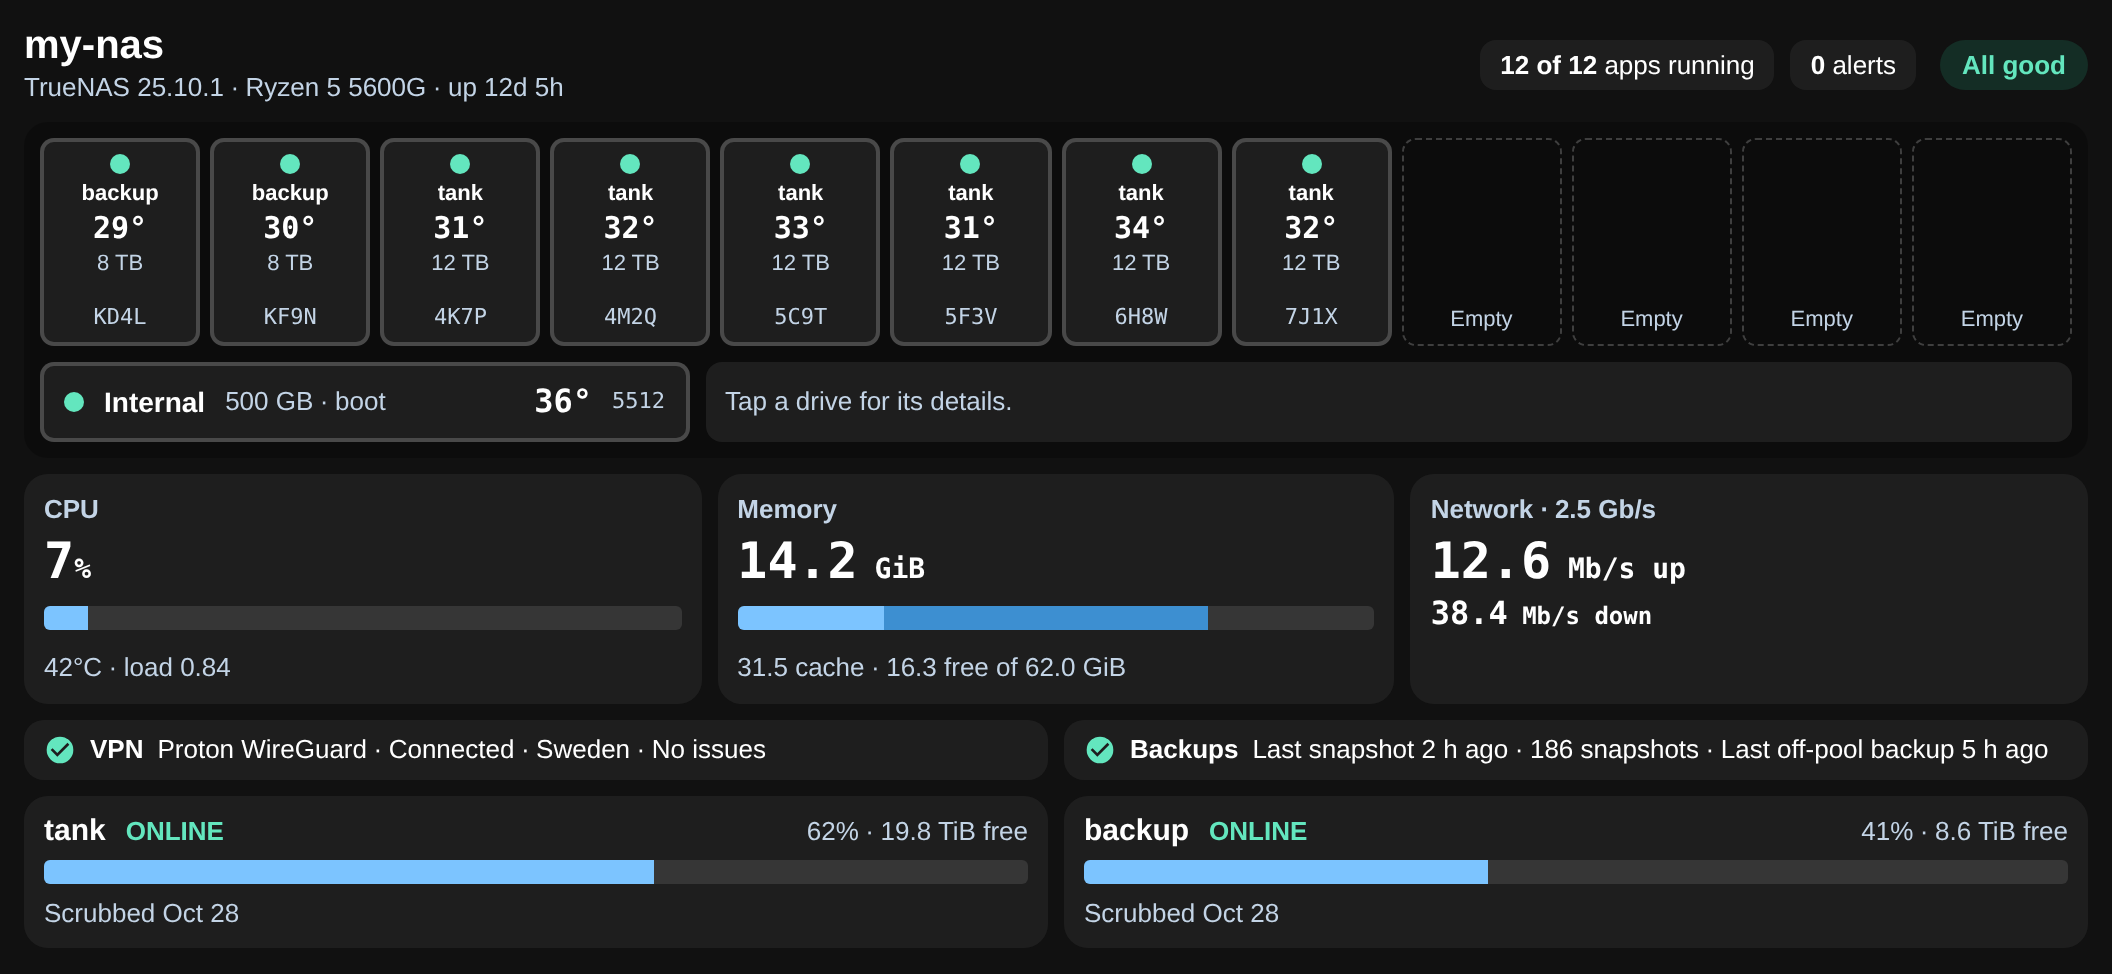
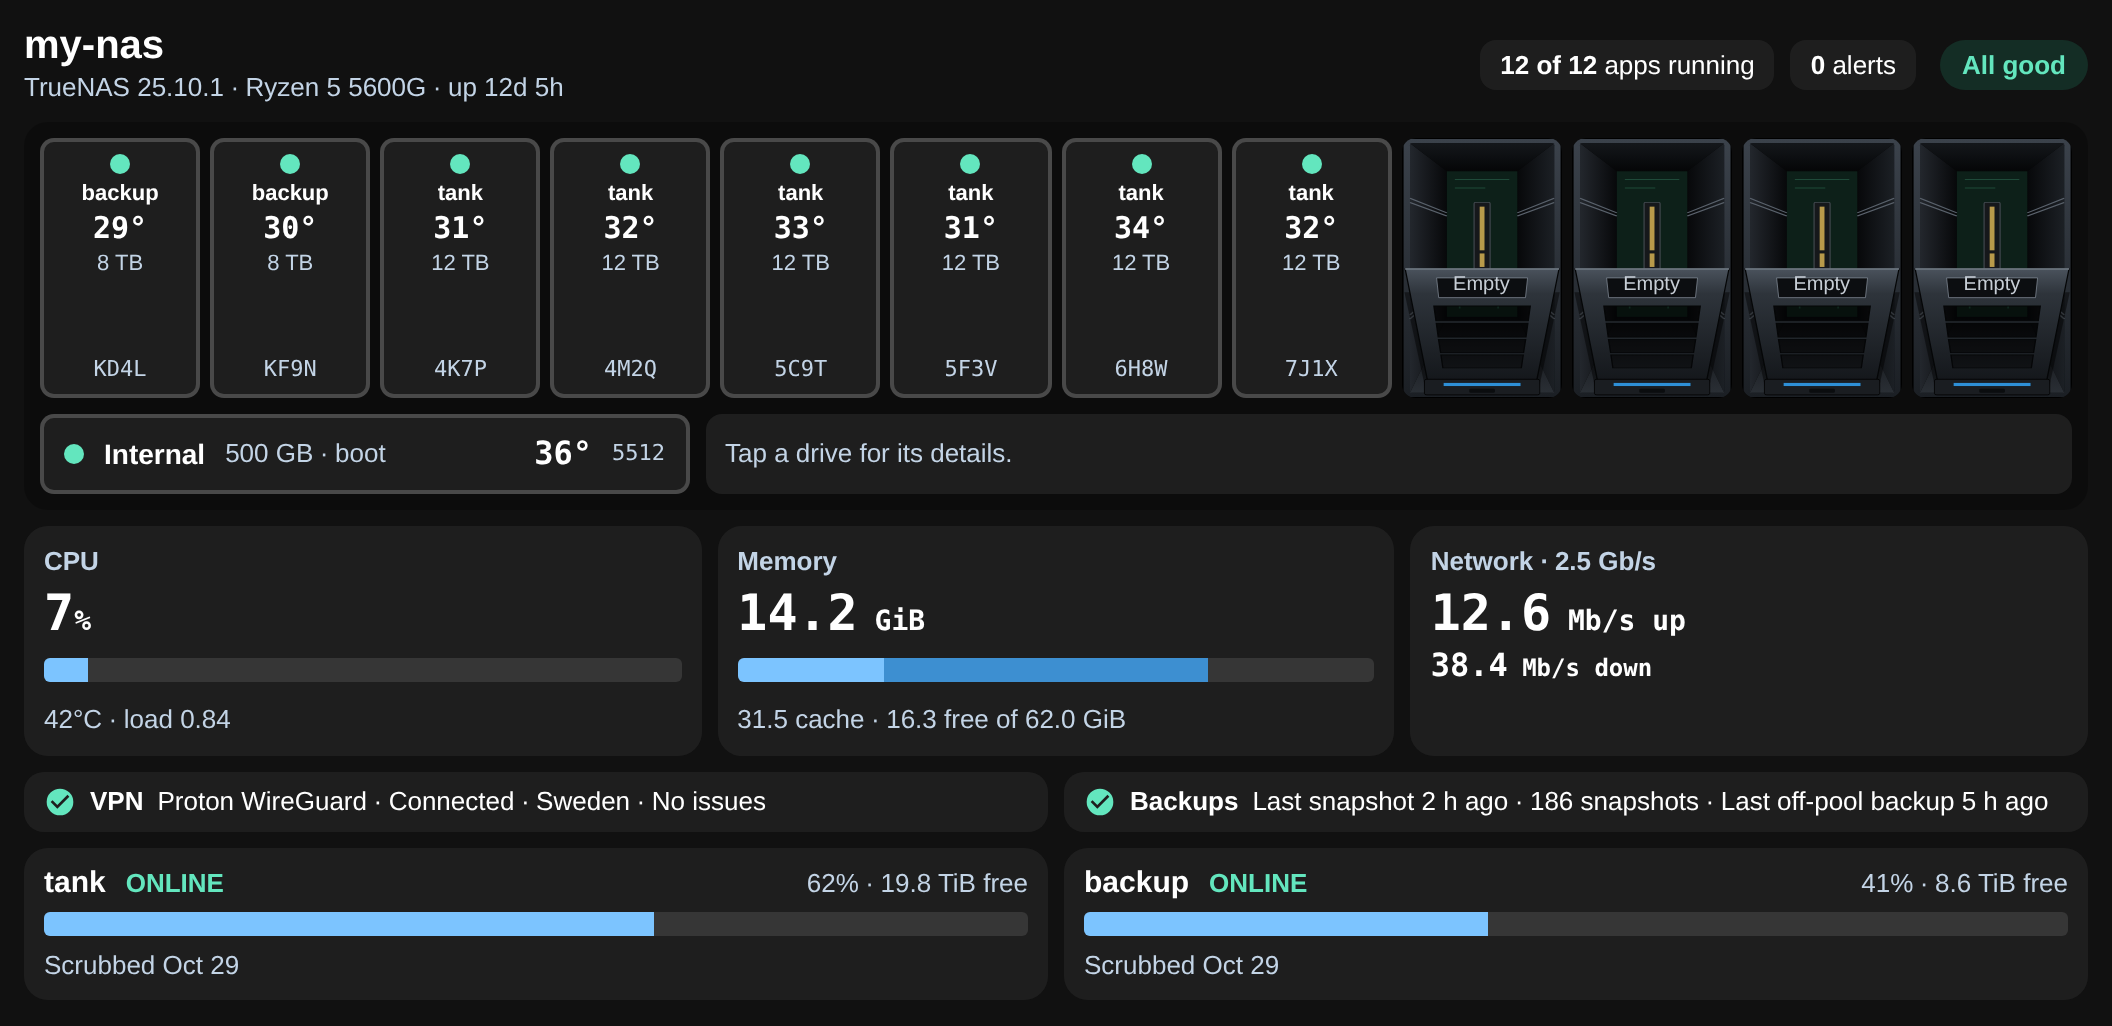
Add files via upload

diff --git a/custom_components/nas_bays/www/nas-bays-card.js b/custom_components/nas_bays/www/nas-bays-card.js
@@ -1,6 +1,6 @@
 /* NAS Bays card for Home Assistant. Read-only: nothing on this card can change the NAS. MIT licence. */
 (() => {
-const VERSION = "0.4.0";
+const VERSION = "0.4.1";
 const esc = (v) => String(v ?? "").replace(/[&<>"']/g, (c) => ({ "&": "&amp;", "<": "&lt;", ">": "&gt;", '"': "&quot;", "'": "&#39;" }[c]));
 const num = (v) => { const n = parseFloat(v); return Number.isFinite(n) ? n : null; };
 const fmt = (v, d = 1) => (v == null ? "–" : (+v).toFixed(d));
@@ -26,6 +26,8 @@ const t = (key, vars = {}) => {
   if (typeof v === "object") v = v[new Intl.PluralRules(LANG).select(vars.n ?? 0)] ?? v.other;
   return v.replace(/\{(\w+)\}/g, (_, k) => vars[k] ?? "");
 };
+/* An empty bay: the flap swung open, so you can see the rails and connector inside. */
+const EMPTY_BAY = '<svg class="ebay" viewBox="0 0 100 250" preserveAspectRatio="none" aria-hidden="true"><defs><linearGradient id="nbF" x1="0" y1="0" x2="0" y2="1"><stop offset="0" stop-color="#3b424b"/><stop offset="1" stop-color="#1b1f24"/></linearGradient><linearGradient id="nbL" x1="0" y1="0" x2="1" y2="0"><stop offset="0" stop-color="#23272d"/><stop offset="1" stop-color="#07080a"/></linearGradient><linearGradient id="nbR" x1="1" y1="0" x2="0" y2="0"><stop offset="0" stop-color="#1c2025"/><stop offset="1" stop-color="#07080a"/></linearGradient><linearGradient id="nbT" x1="0" y1="0" x2="0" y2="1"><stop offset="0" stop-color="#14171b"/><stop offset="1" stop-color="#050607"/></linearGradient><linearGradient id="nbB" x1="0" y1="1" x2="0" y2="0"><stop offset="0" stop-color="#2a2f35"/><stop offset="1" stop-color="#08090b"/></linearGradient><linearGradient id="nbH" x1="0" y1="0" x2="0" y2="1"><stop offset="0" stop-color="#4a525c"/><stop offset=".22" stop-color="#2e343b"/><stop offset="1" stop-color="#14171b"/></linearGradient></defs><rect x=".5" y=".5" width="99" height="249" rx="4" fill="url(#nbF)" stroke="#000"/><rect x="5" y="5" width="90" height="240" rx="2" fill="#050607"/><path d="M5 5 L28 32 V172 L5 245 Z" fill="url(#nbL)"/><path d="M95 5 L72 32 V172 L95 245 Z" fill="url(#nbR)"/><path d="M5 5 H95 L72 32 H28 Z" fill="url(#nbT)"/><path d="M5 245 H95 L72 172 H28 Z" fill="url(#nbB)"/><rect x="28" y="32" width="44" height="140" fill="#0d2019"/><path d="M33 40 H67 M33 48 H52 M60 150 V164 M36 150 V164" stroke="#1f4a39" stroke-width="1" fill="none"/><rect x="45" y="62" width="10" height="66" rx="1" fill="#16181b" stroke="#454b52" stroke-width=".7"/><rect x="48.5" y="66" width="3" height="42" fill="#b89a4a"/><rect x="48.5" y="111" width="3" height="13" fill="#b89a4a"/><path d="M5 58 L28 72 M5 62 L28 75 M95 58 L72 72 M95 62 L72 75 M5 170 L28 140 M5 174 L28 143 M95 170 L72 140 M95 174 L72 143" stroke="#59616b" stroke-width="1.100" fill="none"/><path d="M1.5 141.3 L98.5 141.3 L85.4 234.0 L14.6 234.0 Z" fill="#000" opacity=".45" transform="translate(0 7)"/><path d="M2.0 126.0 L98.0 126.0 L84.0 234.0 L16.0 234.0 Z M19.9 161.5 L80.1 161.5 L78.8 175.7 L21.2 175.7 Z M21.4 178.0 L78.6 178.0 L77.4 191.4 L22.6 191.4 Z M22.8 193.6 L77.2 193.6 L75.9 206.4 L24.1 206.4 Z M24.3 208.6 L75.7 208.6 L74.5 221.0 L25.5 221.0 Z" fill="url(#nbH)" fill-rule="evenodd" stroke="#050607" stroke-width=".8"/><path d="M2.0 126.0 L98.0 126.0" stroke="#7d8792" stroke-width="1.300"/><path d="M21.6 134.5 L78.4 134.5 L77.1 153.5 L22.9 153.5 Z" fill="#0c0e11" stroke="#7d8792" stroke-width=".6"/><rect x="14" y="232" width="72" height="15" rx="1.500" fill="#1a1d21" stroke="#000" stroke-width=".6"/><rect x="26" y="235.500" width="48" height="3" fill="#2e8fd6"/><rect x="42" y="241" width="16" height="4" rx="1" fill="#0b0d0f"/></svg>';
 const WARN_ICON = '<svg class="ico" viewBox="0 0 24 24" aria-hidden="true"><path d="M12 4 2.5 20h19L12 4Z"/></svg>';
 
 /* Everything the card shows comes from the integration's sensors. */
@@ -226,7 +228,10 @@ button:focus-visible { outline: 2px solid var(--nb-fg); outline-offset: 2px; }
 .nrate span:last-child { font-family: ui-monospace, Menlo, Consolas, monospace; font-weight: 600; }
 ha-card { container-type: inline-size; width: 100%; max-width: var(--nb-max, none); margin-inline: auto; }
 .cage.std .slots { grid-template-columns: repeat(var(--c, 12), minmax(0, 1fr)); gap: 5px; }
-.cage.std .bay, .cage.std .empty { height: 104px; } .cage.std .bay { padding: 6px 2px; justify-content: flex-start; gap: 4px; } .cage.std .bay .mono { margin-top: auto; } .cage.std .empty { padding-bottom: 6px; font-size: 11px; } .cage.std .tag { font-size: 11px; } .cage.std .t { font-size: 15px; } .cage.std .sz { font-size: 11px; }
+.cage.std .bay, .cage.std .empty { height: 130px; } .cage.std .bay { padding: 6px 2px; justify-content: flex-start; gap: 4px; } .cage.std .bay .mono { margin-top: auto; } .cage.std .empty { padding-bottom: 6px; font-size: 11px; } .cage.std .tag { font-size: 11px; } .cage.std .t { font-size: 15px; } .cage.std .sz { font-size: 11px; }
+.cage.std .empty { position: relative; padding: 0; border: 0; overflow: hidden; box-shadow: inset 0 0 0 1px rgba(0,0,0,.5); }
+.ebay { position: absolute; inset: 0; width: 100%; height: 100%; display: block; }
+.elabel { position: absolute; left: 0; right: 0; top: calc(57.6% - 6px); text-align: center; font-size: 10px; line-height: 1.1; color: #c7ced6; }
 @container (max-width: 560px) { .cage.std .slots { grid-template-columns: repeat(6, minmax(0, 1fr)); } .cage.std .empty { display: none; } }
 .stats { display: grid; grid-template-columns: repeat(3, minmax(0, 1fr)); gap: 8px; } .stats b { display: block; font-family: ui-monospace, Menlo, Consolas, monospace; font-size: 18px; }
 
@@ -310,7 +315,7 @@ class NasBaysCard extends HTMLElement {
   }
 
   _bay(serial, m, orient) {
-    if (!serial) return `<div class="empty">${esc(t("empty"))}</div>`;
+    if (!serial) return this._std ? `<div class="empty">${EMPTY_BAY}<span class="elabel">${esc(t("empty"))}</span></div>` : `<div class="empty">${esc(t("empty"))}</div>`;
     const d = m.disks[serial], sel = this._current === serial ? " sel" : "";
     if (!d) {
       const off = m.offline;

diff --git a/custom_components/nas_bays/const.py b/custom_components/nas_bays/const.py
@@ -1,6 +1,6 @@
 """Constants for NAS Bays."""
 DOMAIN = "nas_bays"
-VERSION = "0.4.0"
+VERSION = "0.4.1"
 CARD_URL = f"/{DOMAIN}/nas-bays-card.js"
 CONF_VERIFY_SSL = "verify_ssl"
 DEFAULT_PORT = 443

diff --git a/README.md b/README.md
@@ -4,7 +4,7 @@ A simple Home Assistant card for your TrueNAS server: your drives across the top
 
 ![The NAS Bays card with 12 drive bays, CPU, memory, network, VPN, backups and two pools](images/card.png)
 
-> **Beta (0.4.0).** It runs every day on my own server with TrueNAS 27 RC.1 and Home Assistant 2026.10. It needs TrueNAS 25.10 or newer, but I haven't tried those earlier versions. If you do, please [open an issue](https://github.com/spikey1965/ha-nas-bays/issues) with what works and what doesn't.
+> **Beta (0.4.1).** It runs every day on my own server with TrueNAS 27 RC.1 and Home Assistant 2026.10. It needs TrueNAS 25.10 or newer, but I haven't tried those earlier versions. If you do, please [open an issue](https://github.com/spikey1965/ha-nas-bays/issues) with what works and what doesn't.
 
 ## What it shows
 
